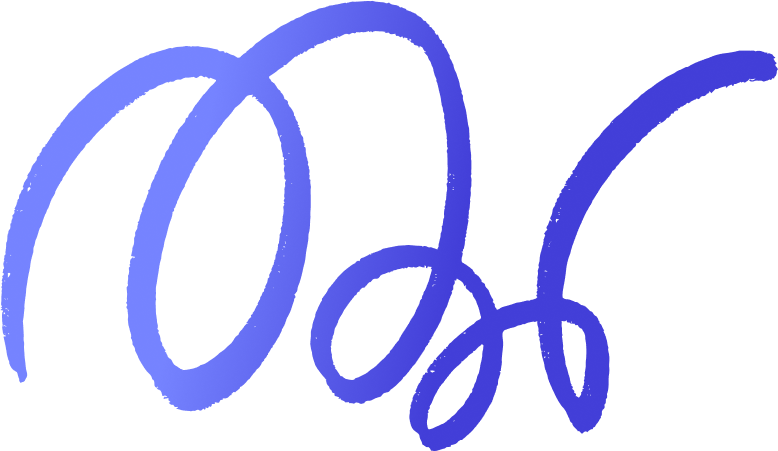
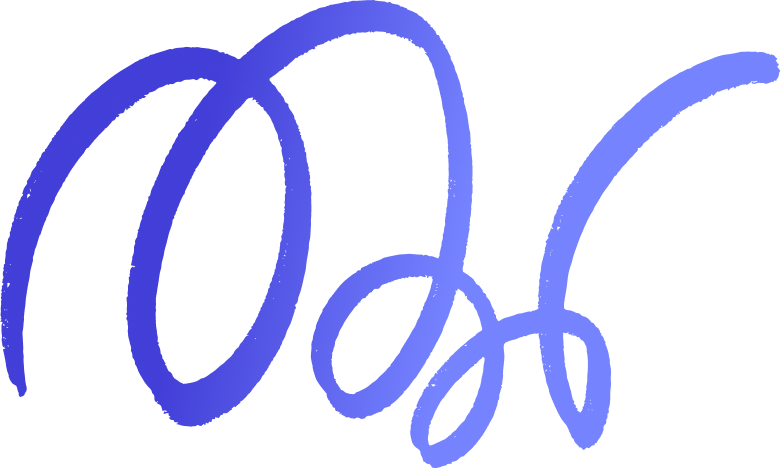
Enhance loading screen with animations and improved design
- Add dynamic gradient fill animation to scribble illustration
- Implement spark fade-in effect when scribble fill completes
- Update progress bar with animated flowing gradient
- Switch to PNG format for illustrations (scribble.png, spark.png)
- Improve positioning and alignment across all elements
- Reduce loading time from 20s to 6s for better UX
- Apply rosewater-to-twilight gradient design system colors
- Optimize animation timing for smooth user experience

Changed region(s): [[0.0, 0.0, 1.0, 1.0]]

diff --git a/css/plan-flow.css b/css/plan-flow.css
@@ -379,7 +379,7 @@ body { font-family: 'Hurme Geometric Sans 2', 'Montserrat', 'Figtree', system-ui
   align-items: center; 
   justify-content: center; 
   min-height: 64px;
-  transition: opacity 0.2s ease;
+  transition: opacity 0.3s ease, transform 0.3s ease;
 }
 
 .primary-btn:hover {
@@ -390,6 +390,17 @@ body { font-family: 'Hurme Geometric Sans 2', 'Montserrat', 'Figtree', system-ui
   background: var(--color-twilight-300); 
   cursor: not-allowed; 
   opacity: 1; 
+}
+
+.primary-btn.hidden {
+  opacity: 0;
+  transform: translateY(8px);
+  pointer-events: none;
+}
+
+.primary-btn.show {
+  opacity: 1;
+  transform: translateY(0);
 }
 .text-btn { 
   display: flex;
@@ -403,11 +414,11 @@ body { font-family: 'Hurme Geometric Sans 2', 'Montserrat', 'Figtree', system-ui
   border: none;
   color: var(--color-twilight-500);
   font-family: var(--typography-fontFamily);
-  font-size: var(--typography-size-body-two);
-  line-height: var(--typography-lineHeight-body-two);
+  font-size: var(--typography-size-subheading-three);
+  line-height: var(--typography-lineHeight-subheading-three);
   font-weight: 600;
   cursor: pointer;
-  min-height: 48px;
+  min-height: 64px;
   transition: background-color 0.2s ease, box-shadow 0.2s ease;
 }
 
@@ -543,11 +554,9 @@ body { font-family: 'Hurme Geometric Sans 2', 'Montserrat', 'Figtree', system-ui
 /* Loading */
 .loading-screen {
   min-height: 100vh;
-  padding: 0;
+  padding: 0 20px;
   display: flex;
   flex-direction: column;
-  justify-content: space-between;
-  align-items: center;
   position: relative;
 }
 
@@ -559,51 +568,116 @@ body { font-family: 'Hurme Geometric Sans 2', 'Montserrat', 'Figtree', system-ui
 .loading-content {
   display: flex;
   flex-direction: column;
-  align-items: center;
-  gap: 32px;
+  align-items: flex-start;
   flex: 1;
   justify-content: center;
-  padding: 160px 20px 80px;
+  padding: 80px 0;
+  position: relative;
 }
 
 .loading-signature {
-  width: 260px;
-  height: 151px;
-  background-image: url('../images/signature.svg');
+  width: 312px; /* 20% larger: 260 * 1.2 */
+  height: 187px; /* 20% larger: 156 * 1.2 */
+  background-image: url('../images/scribble.png');
   background-repeat: no-repeat;
   background-position: center;
   background-size: contain;
-  animation: float 2s ease-in-out infinite;
+  position: absolute;
+  bottom: 228px; /* 172px (text position) + 56px (gap above text) */
+  left: 0px; /* Moved 4px more to the left from 4px */
+  overflow: hidden;
+}
+
+.loading-signature::before {
+  content: '';
+  position: absolute;
+  top: 0;
+  left: 0;
+  width: 100%;
+  height: 100%;
+  background: linear-gradient(90deg, 
+    transparent 0%, 
+    transparent 50%, 
+    transparent 50%),
+    linear-gradient(90deg, var(--color-other-rosewater, #FDD2CA) 0%, var(--color-twilight-600, #423ED8) 68.4%, var(--color-twilight-400, #7583FF) 100%);
+  background-size: 200% 100%, 100% 100%;
+  background-position: 100% 0, 0% 0; /* Start from right side for mask gradient, center for color gradient */
+  mask-image: url('../images/scribble.png');
+  mask-repeat: no-repeat;
+  mask-position: center;
+  mask-size: contain;
+  -webkit-mask-image: url('../images/scribble.png');
+  -webkit-mask-repeat: no-repeat;
+  -webkit-mask-position: center;
+  -webkit-mask-size: contain;
+  animation: fillGradient 1.5s ease-in-out forwards;
+}
+
+.loading-spark {
+  position: absolute;
+  bottom: 388px; /* Moved up 40px more from 348px */
+  left: 328px; /* Moved 16px to the right from 312px */
+  width: 64px;
+  height: 56px;
+  background-image: url('../images/spark.png');
+  background-repeat: no-repeat;
+  background-position: center;
+  background-size: contain;
+  opacity: 0;
+  animation: sparkFadeIn 0.5s ease-in-out 1.5s forwards;
 }
 
 .loading-text {
-  font-size: 24px;
+  font-family: var(--typography-fontFamily);
+  font-size: var(--typography-size-header-three);
+  line-height: var(--typography-lineHeight-header-three);
   font-weight: 700;
-  line-height: 32px;
   color: var(--sys-text-primary);
-  text-align: center;
+  text-align: left;
   margin: 0;
+  max-width: 100%;
+  position: absolute;
+  bottom: 172px; /* 140px (progress bar from bottom) + 32px (gap above bar) */
+  left: 20px; /* Align with screen margin */
+  right: 20px;
 }
 
 .loading-bar {
-  width: 160px;
-  height: 4px;
+  height: 6px;
   background: var(--sys-border-primary);
   border-radius: 8px;
   overflow: hidden;
-  margin: 0 20px 40px;
+  position: absolute;
+  bottom: 140px;
+  left: 20px; /* Align with screen margin */
+  right: 20px;
 }
 
 .loading-bar .fill {
   width: 0%;
   height: 100%;
-  background: var(--sys-interactive-bg-primary-default);
-  animation: load 3.2s ease-in-out forwards;
-  border-radius: 8px;
+  border-radius: var(--radius-full, 200px);
+  background: linear-gradient(90deg, var(--color-other-rosewater, #FDD2CA) 0%, var(--color-twilight-600, #423ED8) 68.4%, var(--color-twilight-400, #7583FF) 100%);
+  background-size: 200% 100%;
+  background-position: -50% 0;
+  animation: load 6s ease-in-out forwards, progressGradientMove 2s ease-in-out infinite;
 }
 
 @keyframes float { 0%,100%{ transform: translateY(0); } 50%{ transform: translateY(-6px); } }
 @keyframes load { from{ width:0%; } to{ width:100%; } }
+@keyframes fillGradient { 
+  from { background-position: 100% 0, 0% 0; } 
+  to { background-position: 0% 0, 0% 0; } 
+}
+@keyframes sparkFadeIn { 
+  from { opacity: 0; transform: scale(0.8); } 
+  to { opacity: 1; transform: scale(1); } 
+}
+@keyframes progressGradientMove {
+  0% { background-position: -50% 0; }
+  50% { background-position: 0% 0; }
+  100% { background-position: 50% 0; }
+}
 
 /* Shimmer loading effect */
 @keyframes shimmer {

diff --git a/js/plan-flow.js b/js/plan-flow.js
@@ -1305,8 +1305,26 @@
     const concepts = [...defaultConcepts];
     // Extract course code part (before " - " if present) as fallback
     const courseCode = state.course.split(' - ')[0];
+    
+    // Format goals with proper grammar
+    let goalsText = '';
+    if (state.goals && state.goals.length > 0) {
+      if (state.goals.length === 1) {
+        goalsText = state.goals[0];
+      } else if (state.goals.length === 2) {
+        goalsText = `${state.goals[0]} and ${state.goals[1]}`;
+      } else {
+        // 3+ goals: "Exam 1, Exam 2 and Exam 3"
+        const lastGoal = state.goals[state.goals.length - 1];
+        const otherGoals = state.goals.slice(0, -1);
+        goalsText = `${otherGoals.join(', ')} and ${lastGoal}`;
+      }
+    } else {
+      goalsText = courseCode;
+    }
+    
     flowContent.innerHTML = ''+
-      `<h1 class="flow-title">What's going to be on ${escapeHtml(state.goals.join(', ') || courseCode)}?</h1>`+
+      `<h1 class="flow-title">What's going to be on ${escapeHtml(goalsText)}?</h1>`+
       `<div class="course-list-card" id="conceptList"></div>`+
       `<div class="course-list-card" id="addConceptCard">`+
       `  <div class="course-row" id="addConceptRow">`+
@@ -1433,7 +1451,7 @@
       `  <input id="dueDate" class="date-input-hidden" type="date" />`+
       `</div>`+
       `<div class="cta-row" style="display:flex; flex-direction:column; gap:16px;">
-        <button class="primary-btn" id="startBtn" disabled>Start studying</button>
+        <button class="primary-btn hidden" id="startBtn">Start studying</button>
         <button class="text-btn" id="skipBtn">Skip for now</button>
       </div>`;
     
@@ -1498,12 +1516,18 @@
         datePickerText.textContent = formatDateDisplay(state.dueDate);
         datePickerBtn.classList.add('selected');
         updateTitle(state.dueDate);
-        startBtn.disabled = false;
+        
+        // Animate in the start button
+        startBtn.classList.remove('hidden');
+        startBtn.classList.add('show');
       } else {
         datePickerText.textContent = 'Select date';
         datePickerBtn.classList.remove('selected');
         updateTitle();
-        startBtn.disabled = true;
+        
+        // Hide the start button
+        startBtn.classList.add('hidden');
+        startBtn.classList.remove('show');
       }
     });
     
@@ -1513,7 +1537,10 @@
       datePickerText.textContent = formatDateDisplay(state.dueDate);
       datePickerBtn.classList.add('selected');
       updateTitle(state.dueDate);
-      startBtn.disabled = false;
+      
+      // Show the start button if date already exists
+      startBtn.classList.remove('hidden');
+      startBtn.classList.add('show');
     }
     
     document.getElementById('skipBtn').addEventListener('click', goLoading);
@@ -1528,8 +1555,9 @@
       `<div class="loading-screen">
          <div class="loading-content">
            <div class="loading-signature"></div>
-           <div class="loading-text">Generating study plan.</div>
          </div>
+         <div class="loading-spark"></div>
+         <div class="loading-text">Generating study plan.</div>
          <div class="loading-bar"><div class="fill"></div></div>
        </div>`;
 
@@ -1546,7 +1574,7 @@
       if(state.dueDate) localStorage.setItem('plan_due_date', state.dueDate);
     } catch(_){}
 
-    setTimeout(()=>{ window.location.href = '../html/study-plan.html'; }, 3500);
+    setTimeout(()=>{ window.location.href = '../html/study-plan.html'; }, 6000);
   }
 
   // Helpers
